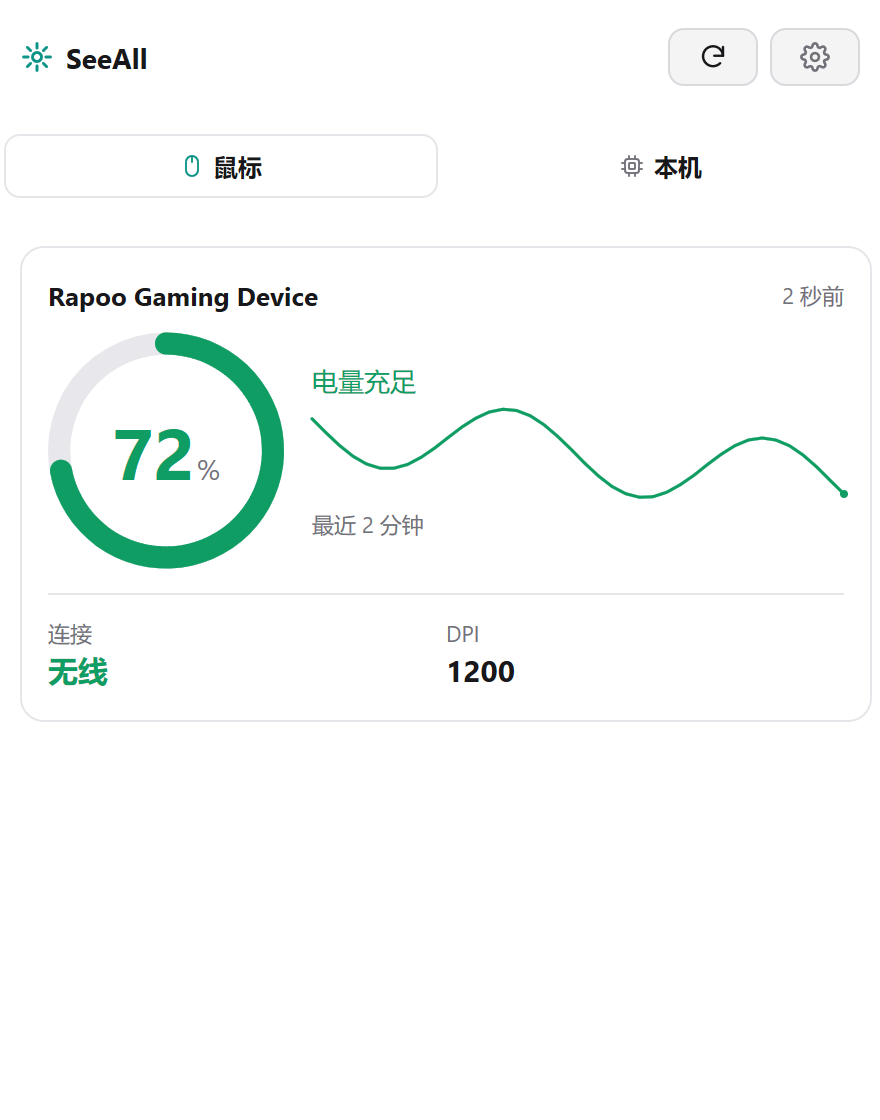
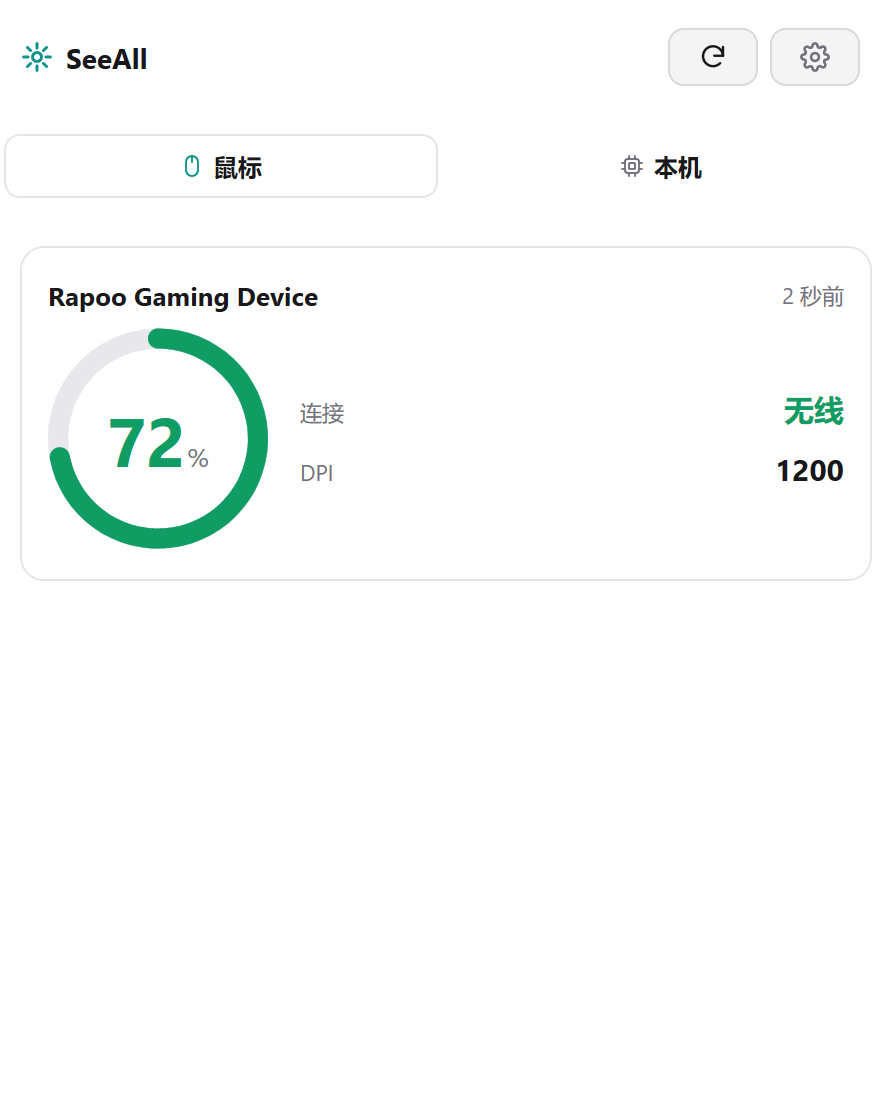
feat: 鼠标卡片改成左环右读数
- 电量卡不再画折线，也不显示「电量充足」这类说明：环和数字已经说完了。
- 连接与 DPI 从卡片下方挪到右侧，一行一个（「标签 … 值」，两端对齐）。
- 环从 118 收到 110，数字 36 → 34，给右侧两行留位置。

旧的 heroValue 现在只剩分卡页在用，合卡页改走新的 headline（只有环/数字，
不画趋势与 caption）；inlineReading 从「一列标签压着值」改成「一行标签值分列
两端」。

测试：TestCombinedPageIsOneCard 的断言跟着改（右侧、一行一条、标签与值同基线），
新增 TestCombinedPageShowsNoTrendOrWording——塞回「电量充足」会挂，确认咬得住。

验证：go build / go vet / gofmt 干净，go test 全绿；打包版 exe 截图核对；
cmd/preview 重出文档图。

diff --git a/internal/panel/detail.go b/internal/panel/detail.go
@@ -63,9 +63,9 @@ func (a *App) hero(c *ui.Context, p palette, in *app.Instance, snap core.Snapsho
 	})
 }
 
-// combined is the page of a plugin whose readings describe one device: the
-// device's name, the reading that matters, and the rest of them under it, all
-// in one card.
+// combined is the page of a plugin whose readings describe one device: its
+// name across the top, the reading that matters on the left, and the rest of
+// them down the right, one to a line.
 func (a *App) combined(c *ui.Context, p palette, in *app.Instance, snap core.Snapshot) {
 	primary, ok := pickPrimary(snap)
 	if !ok {
@@ -79,7 +79,7 @@ func (a *App) combined(c *ui.Context, p palette, in *app.Instance, snap core.Sna
 		}
 	}
 
-	card(c, p).Shrink(0).Padding(15, 13).Gap(10).Children(func() {
+	card(c, p).Shrink(0).Padding(15, 13).Gap(8).Children(func() {
 		// The device first: what the numbers below belong to.
 		ui.Row(c).Gap(8).AlignItems(ui.Center).Children(func() {
 			ui.Text(c, deviceName(snap)).FontSize(13).Bold().NoWrap().MaxLines(1).Grow(1)
@@ -87,19 +87,44 @@ func (a *App) combined(c *ui.Context, p palette, in *app.Instance, snap core.Sna
 				ui.Text(c, primary.Detail).FontSize(11).TextColor(p.TextMuted).NoWrap()
 			}
 		})
-		// A ring says what it is; any other value needs its name.
-		if primary.Unit != core.UnitPercent {
-			label(c, p, primary.Label)
-		}
-		a.heroValue(c, p, in, primary)
-		if len(rest) > 0 {
-			hline(c, p)
-			ui.Row(c).Gap(0).Children(func() {
-				for _, r := range rest {
-					a.inlineReading(c, p, in, r)
-				}
+		ui.Row(c).AlignItems(ui.Center).Gap(16).Children(func() {
+			a.headline(c, p, primary)
+			// The device's other readings sit beside its level rather than
+			// under it: one card, read left to right.
+			if len(rest) > 0 {
+				ui.Column(c).Grow(1).Basis(0).Gap(10).Children(func() {
+					for _, r := range rest {
+						a.inlineReading(c, p, in, r)
+					}
+				})
+			}
+		})
+	})
+}
+
+// headline is the reading a card is about: the ring for a percentage, the
+// value itself for anything else. A combined page shows no trend and no
+// wording beside it — the number and the device name say enough.
+func (a *App) headline(c *ui.Context, p palette, primary core.Reading) {
+	if primary.Unit == core.UnitPercent {
+		ui.Box(c).Size(110, 110).
+			Draw(func(pt *ui.Painter, r ui.Rect) {
+				drawRing(pt, r, p.Track, clamp01(primary.Value/100),
+					p.severityColor(primary.Severity), 10)
+			}).Children(func() {
+			ui.Column(c).Fill().Center().Children(func() {
+				ui.Row(c).AlignItems(ui.Baseline).Gap(1).Children(func() {
+					bigValue(c, core.FormatNumber(primary.Value), 34,
+						p.severityColor(primary.Severity))
+					ui.Text(c, "%").FontSize(13).TextColor(p.TextMuted)
+				})
 			})
-		}
+		})
+		return
+	}
+	ui.Column(c).Gap(1).Children(func() {
+		label(c, p, primary.Label)
+		bigValue(c, primary.Format(), 34, p.severityColor(primary.Severity))
 	})
 }
 
@@ -115,15 +140,15 @@ func deviceName(snap core.Snapshot) string {
 	return "设备"
 }
 
-// inlineReading is one of the readings a combined card shows beside the
-// others: its label above its value, one cell of a row.
+// inlineReading is one of the readings a combined card shows down its right:
+// its label and its value on one line, the two ends of a row.
 func (a *App) inlineReading(c *ui.Context, p palette, in *app.Instance, r core.Reading) {
 	valueColor := p.Text
 	if r.Severity != core.SeverityNone {
 		valueColor = p.severityColor(r.Severity)
 	}
-	ui.Column(c).Grow(1).Basis(0).Gap(1).Children(func() {
-		ui.Text(c, r.Label).FontSize(11).TextColor(p.TextMuted).NoWrap().MaxLines(1)
+	ui.Row(c).Gap(8).AlignItems(ui.Baseline).Children(func() {
+		ui.Text(c, r.Label).FontSize(11).TextColor(p.TextMuted).NoWrap().MaxLines(1).Grow(1)
 		ui.Text(c, r.Format()).FontSize(15).Bold().TextColor(valueColor).NoWrap().MaxLines(1)
 	})
 }

diff --git a/internal/panel/combined_test.go b/internal/panel/combined_test.go
@@ -24,8 +24,8 @@ func combinedFixture(t *testing.T) (*app.Host, *App) {
 }
 
 // TestCombinedPageIsOneCard checks a plugin whose readings describe one device
-// shows them in a single card: the device's name, the headline reading, and
-// link and DPI together under it, rather than as cards of their own.
+// shows them in a single card: the device's name across the top, the level on
+// the left, and link and DPI down the right, one to a line.
 func TestCombinedPageIsOneCard(t *testing.T) {
 	_, p := combinedFixture(t)
 	p.SetSelected("mouse")
@@ -45,23 +45,63 @@ func TestCombinedPageIsOneCard(t *testing.T) {
 		t.Errorf("the battery sits above the device name: %v vs %v", battery.Y, name.Y)
 	}
 
-	// The other readings are in the same card, under the level, so they must
-	// sit below it and above the card's bottom edge.
-	for _, want := range []string{"连接", "无线", "DPI", "1200"} {
-		r, ok := tt.Find(want)
+	// The other readings are in the same card, down its right side, one
+	// reading to a line: a label and its value share a row, and the rows run
+	// down the card.
+	rows := []struct{ label, value string }{
+		{"连接", "无线"},
+		{"DPI", "1200"},
+	}
+	var previous float32
+	for i, row := range rows {
+		label, ok := tt.Find(row.label)
 		if !ok {
-			t.Fatalf("the card shows no %q: %v", want, tt.Texts())
+			t.Fatalf("the card shows no %q: %v", row.label, tt.Texts())
 		}
-		if r.Y <= battery.Y {
-			t.Errorf("%q sits at y=%v, above the level at y=%v", want, r.Y, battery.Y)
+		value, ok := tt.Find(row.value)
+		if !ok {
+			t.Fatalf("the card shows no %q: %v", row.value, tt.Texts())
+		}
+		if label.X <= battery.X || value.X <= battery.X {
+			t.Errorf("%q and %q sit at x=%v and x=%v, not to the right of the level at x=%v",
+				row.label, row.value, label.X, value.X, battery.X)
+		}
+		if value.X <= label.X {
+			t.Errorf("%q at x=%v is not to the right of %q at x=%v", row.value, value.X, row.label, label.X)
+		}
+		// Baseline alignment leaves a pixel or two between the two.
+		if diff := label.Y - value.Y; diff > 6 || diff < -6 {
+			t.Errorf("%q and %q are not on one row: y=%v vs y=%v", row.label, row.value, label.Y, value.Y)
+		}
+		if i > 0 && label.Y <= previous {
+			t.Errorf("%q sits at y=%v, not below the reading before it at y=%v", row.label, label.Y, previous)
+		}
+		previous = label.Y
+	}
+}
+
+// TestCombinedPageShowsNoTrendOrWording checks the combined card keeps to the
+// number and the device: a battery page has no trend line and no "电量充足"
+// beside the ring, which a glance at the ring already says.
+func TestCombinedPageShowsNoTrendOrWording(t *testing.T) {
+	_, p := combinedFixture(t)
+	// A history long enough that the separate page would draw a trend.
+	p.Host.InjectHistory("mouse", "battery", []float64{72, 70, 74, 71, 73, 72})
+	p.SetSelected("mouse")
+	p.SetSize(Fit(1920, 1040, 1))
+	tt := ui.NewTester(p.View, DesignWidth, DesignHeight)
+
+	for _, unwanted := range []string{"电量充足", "还够用", "该充电了"} {
+		if tt.HasText(unwanted) {
+			t.Errorf("the card says %q beside the ring: %v", unwanted, tt.Texts())
 		}
 	}
-
-	// One card means no gap of a card between the level and the readings
-	// under it: the readings are in the same box, close below it.
-	link, _ := tt.Find("连接")
-	if link.Y-battery.Y > 160 {
-		t.Errorf("the readings under the level are %v away: a second card", link.Y-battery.Y)
+	if tt.HasText("最近") {
+		t.Errorf("the card draws a trend: %v", tt.Texts())
+	}
+	// The value itself is still there.
+	if !tt.HasText("72") {
+		t.Errorf("the card shows no level: %v", tt.Texts())
 	}
 }
 

diff --git a/README.md b/README.md
@@ -75,7 +75,7 @@ Width  = round(660 / scale)                  // DIP：1x→660，1.5x→440，2x
 
 - **标题栏**：应用名 + 刷新 + 设置。
 - **标签页**：每个监控项一个，等宽铺满，选中项是白底描边的卡片；状态不是「正常」时标签上是彩点，因为一次只看得到一页。
-- **页面**：默认是主读数一张大卡（环 + 趋势）+ 其余每个读数一张小卡，两张一行；小卡右上角是趋势折线，左上角是标签。插件声明 `Combined` 时整页只有一张卡：设备名、主读数、其余读数并排在下（鼠标就是这样——电量、连接、DPI 是同一只鼠标的三件事）。读数多了整页滚动。
+- **页面**：默认是主读数一张大卡（环 + 趋势）+ 其余每个读数一张小卡，两张一行；小卡右上角是趋势折线，左上角是标签。插件声明 `Combined` 时整页只有一张卡：设备名横在顶部，左边是电量环，右边是连接与 DPI 各占一行（鼠标就是这样——电量、连接、DPI 是同一只鼠标的三件事）。合卡页不画折线，也不写「电量充足」这类说明，环和数字已经说完了。读数多了整页滚动。
 
 页面里没有状态栏，也没有日志和退出按钮：托盘右键菜单里两样都有，面板只管看。
 

diff --git a/docs/design.md b/docs/design.md
@@ -120,8 +120,9 @@ Height = round(840 / scale)
   - 默认：主读数大卡 + 其余读数的小卡（`ui.Grid` 两列）。小卡里标签和折线共用顶行
     （折线居右，`trendWidth`×`trendHeight` 的固定位置，没有折线也占位），下面依次是值与说明。
     适合读数在量不同东西的页面（本机：CPU、内存、磁盘）。
-  - `Combined`：整页一张卡——设备名（`Snapshot.Title`）、主读数、其余读数并排在下。
-    适合读数描述同一个东西的页面（鼠标：电量、连接、DPI）。
+  - `Combined`：整页一张卡——设备名（`Snapshot.Title`）横在顶部，主读数（`headline`，只有环或数字）
+    在左，其余读数（`inlineReading`，「标签 … 值」一行一条）在右。不画折线、不写 caption：
+    环和数字已经说完了。适合读数描述同一个东西的页面（鼠标：电量、连接、DPI）。
   - `settings` 是长表单，滚动。
 
 设置页的「添加」卡片列出**当前没有实例的插件**，所以移除掉的那一项从这里加回来。
